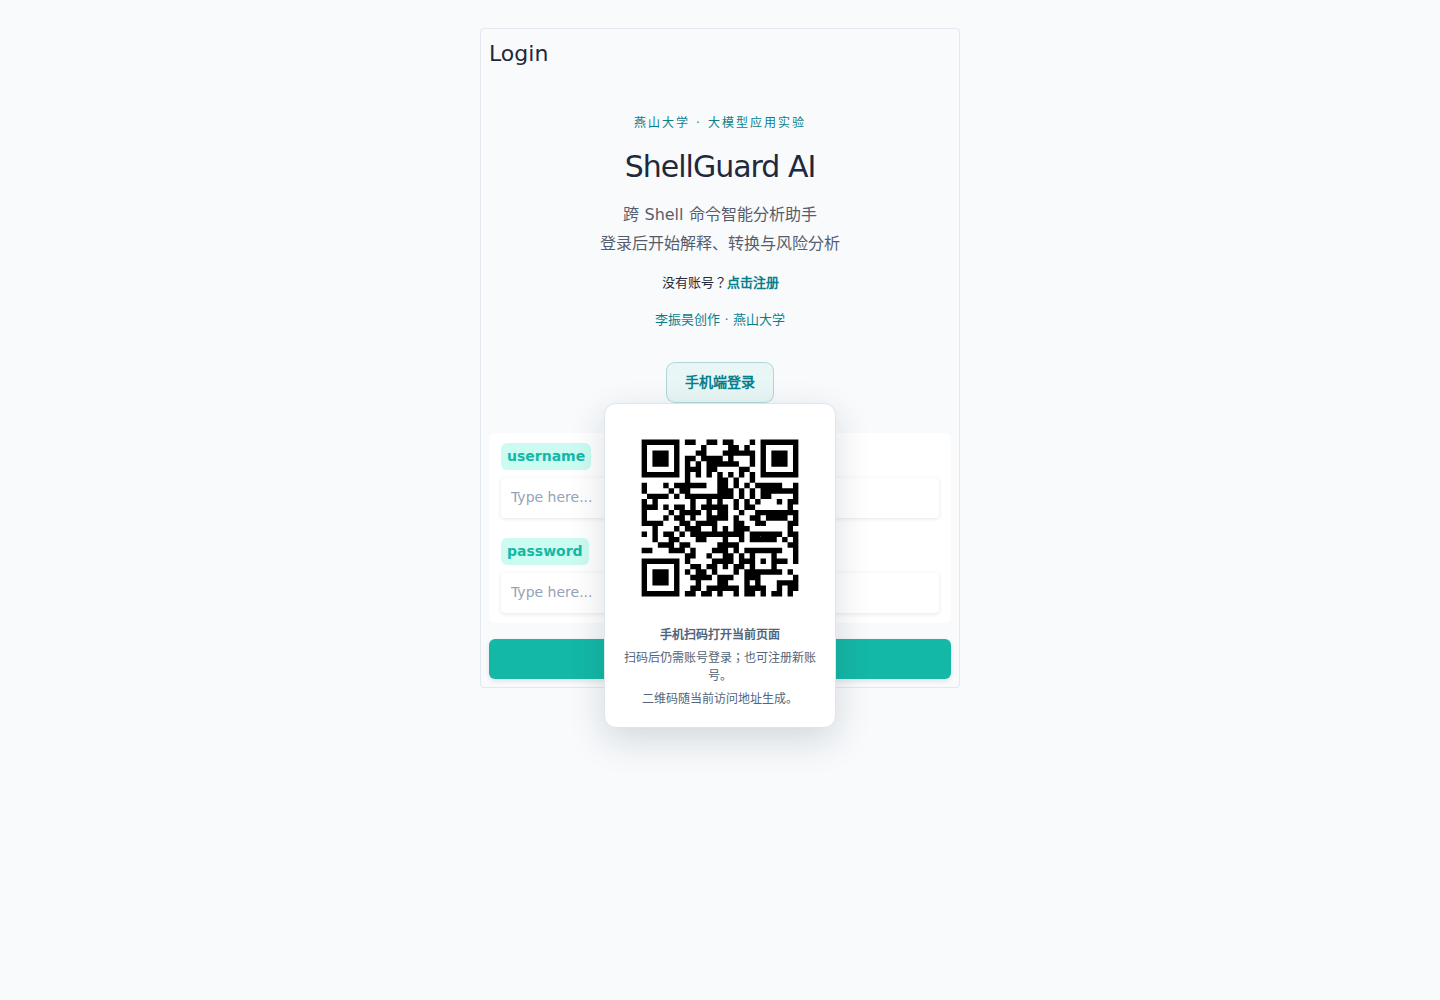
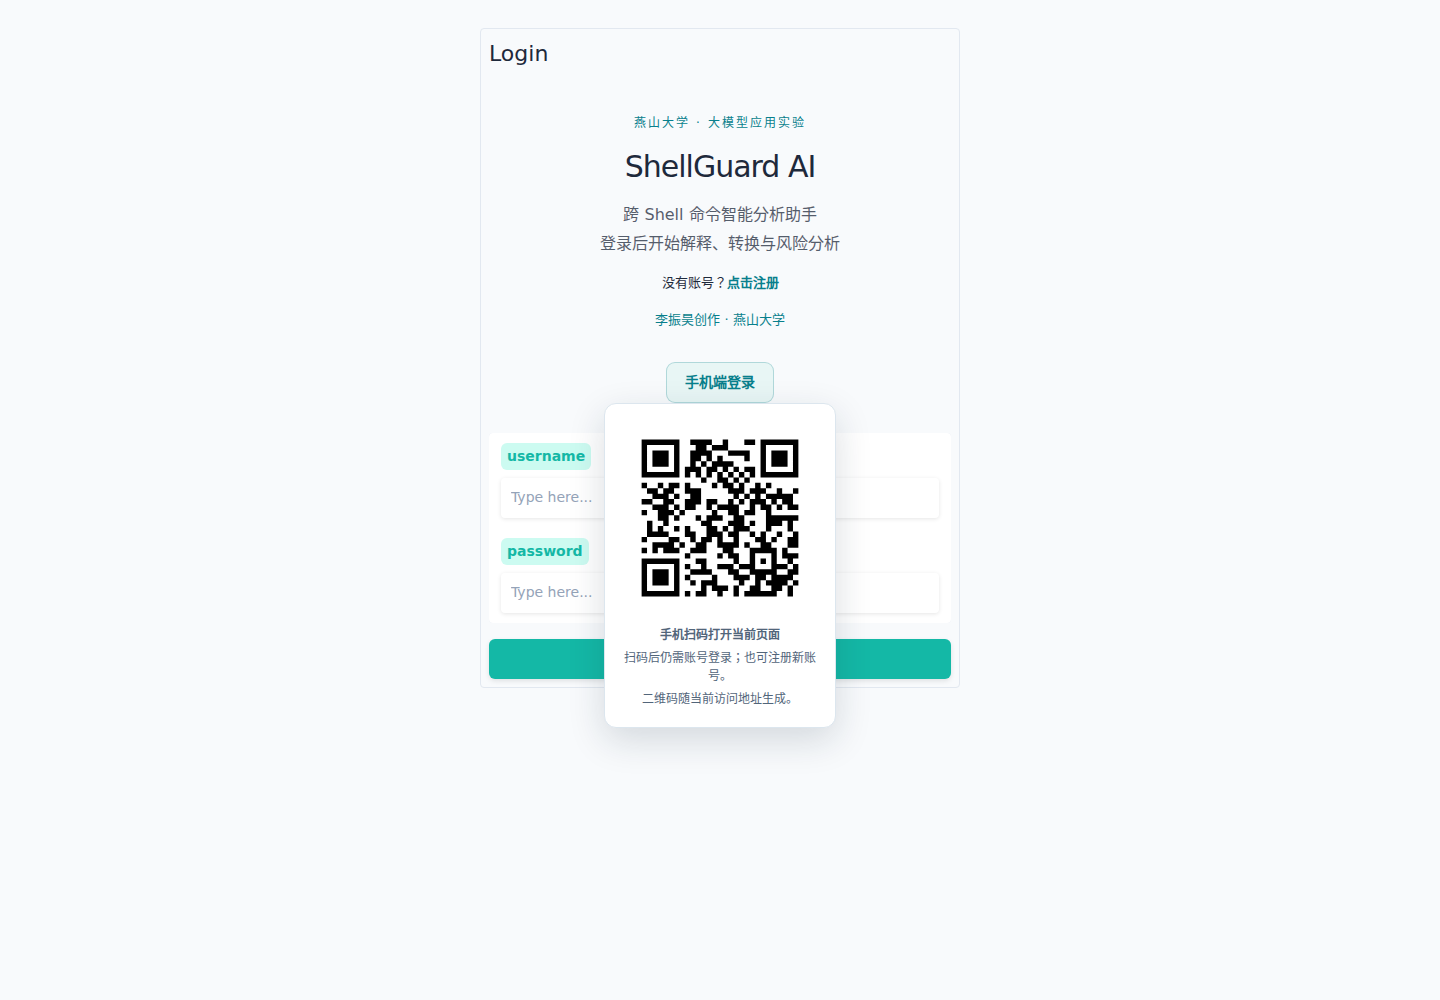
Clean up authenticated header and keep QR on login page

Changed region(s): [[0.4375, 0.434, 0.5625, 0.62]]

diff --git a/app.py b/app.py
@@ -400,8 +400,7 @@ def create_app(settings: Settings | None = None) -> gr.Blocks:
                    font=["system-ui", "sans-serif"], font_mono=["ui-monospace", "monospace"]),
                    css=CSS, analytics_enabled=False, delete_cache=(3600, 3600)) as demo:
         history = gr.State([])
-        account_bar = gr.HTML(elem_id="account-bar")
-        gr.HTML('<div style="text-align:right">' + MOBILE_LOGIN_HTML + '</div>')
+        account_bar = gr.HTML(elem_id="account-bar", container=False, padding=False)
         gr.HTML(HERO_HTML)
         if backend == "mock":
             gr.HTML(_status_banner("mock", "<strong>离线演示</strong> · 未调用大模型。12 组预置样例可体验完整流程，未知命令仅提供静态检测。"))

diff --git a/docs/AUTODL_DEPLOYED.md b/docs/AUTODL_DEPLOYED.md
@@ -6,7 +6,7 @@
 
 ## 访问
 
-**已验证公网地址（2026-10-30）：https://affdf83b411c5778fa.gradio.live**
+**已验证公网地址（2026-10-30）：https://7089f953136cbb227a.gradio.live**
 
 [当前二维码 PNG](../artifacts/public/current/shellguard-qr.png) · [当前二维码 SVG](../artifacts/public/current/shellguard-qr.svg) · [手机登录验收记录](../artifacts/public/current/mobile-login-verification.json)
 
